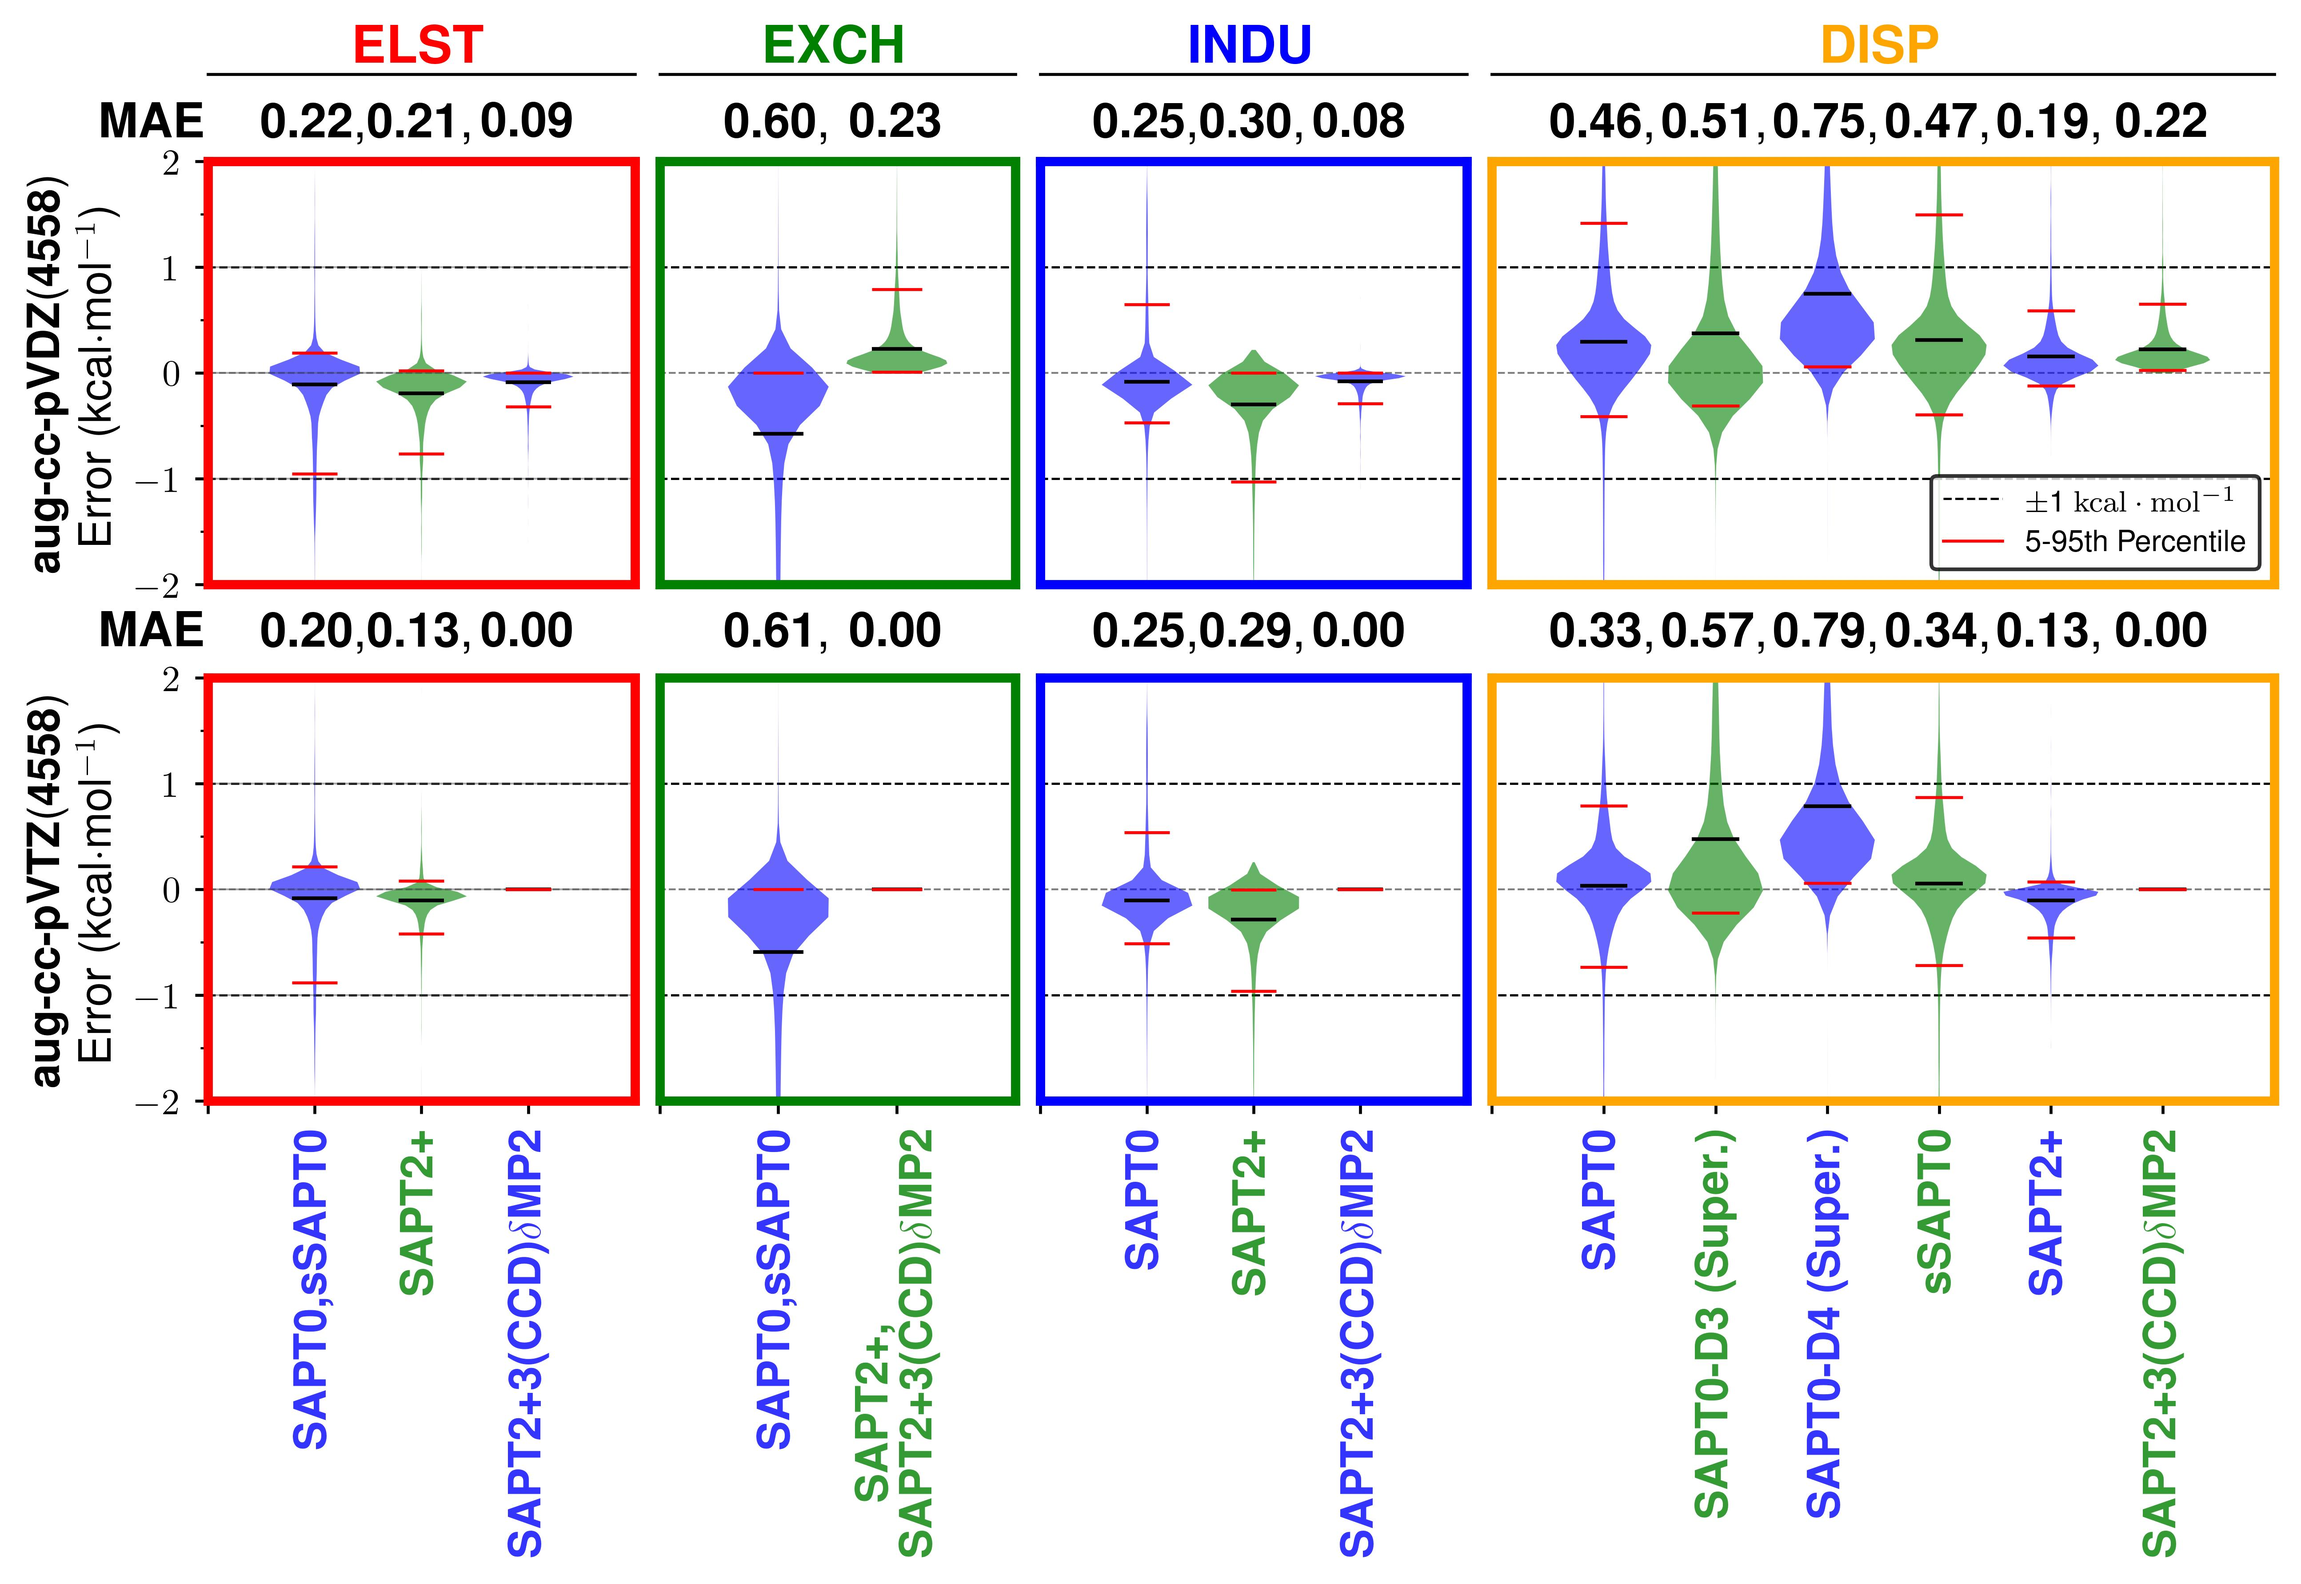
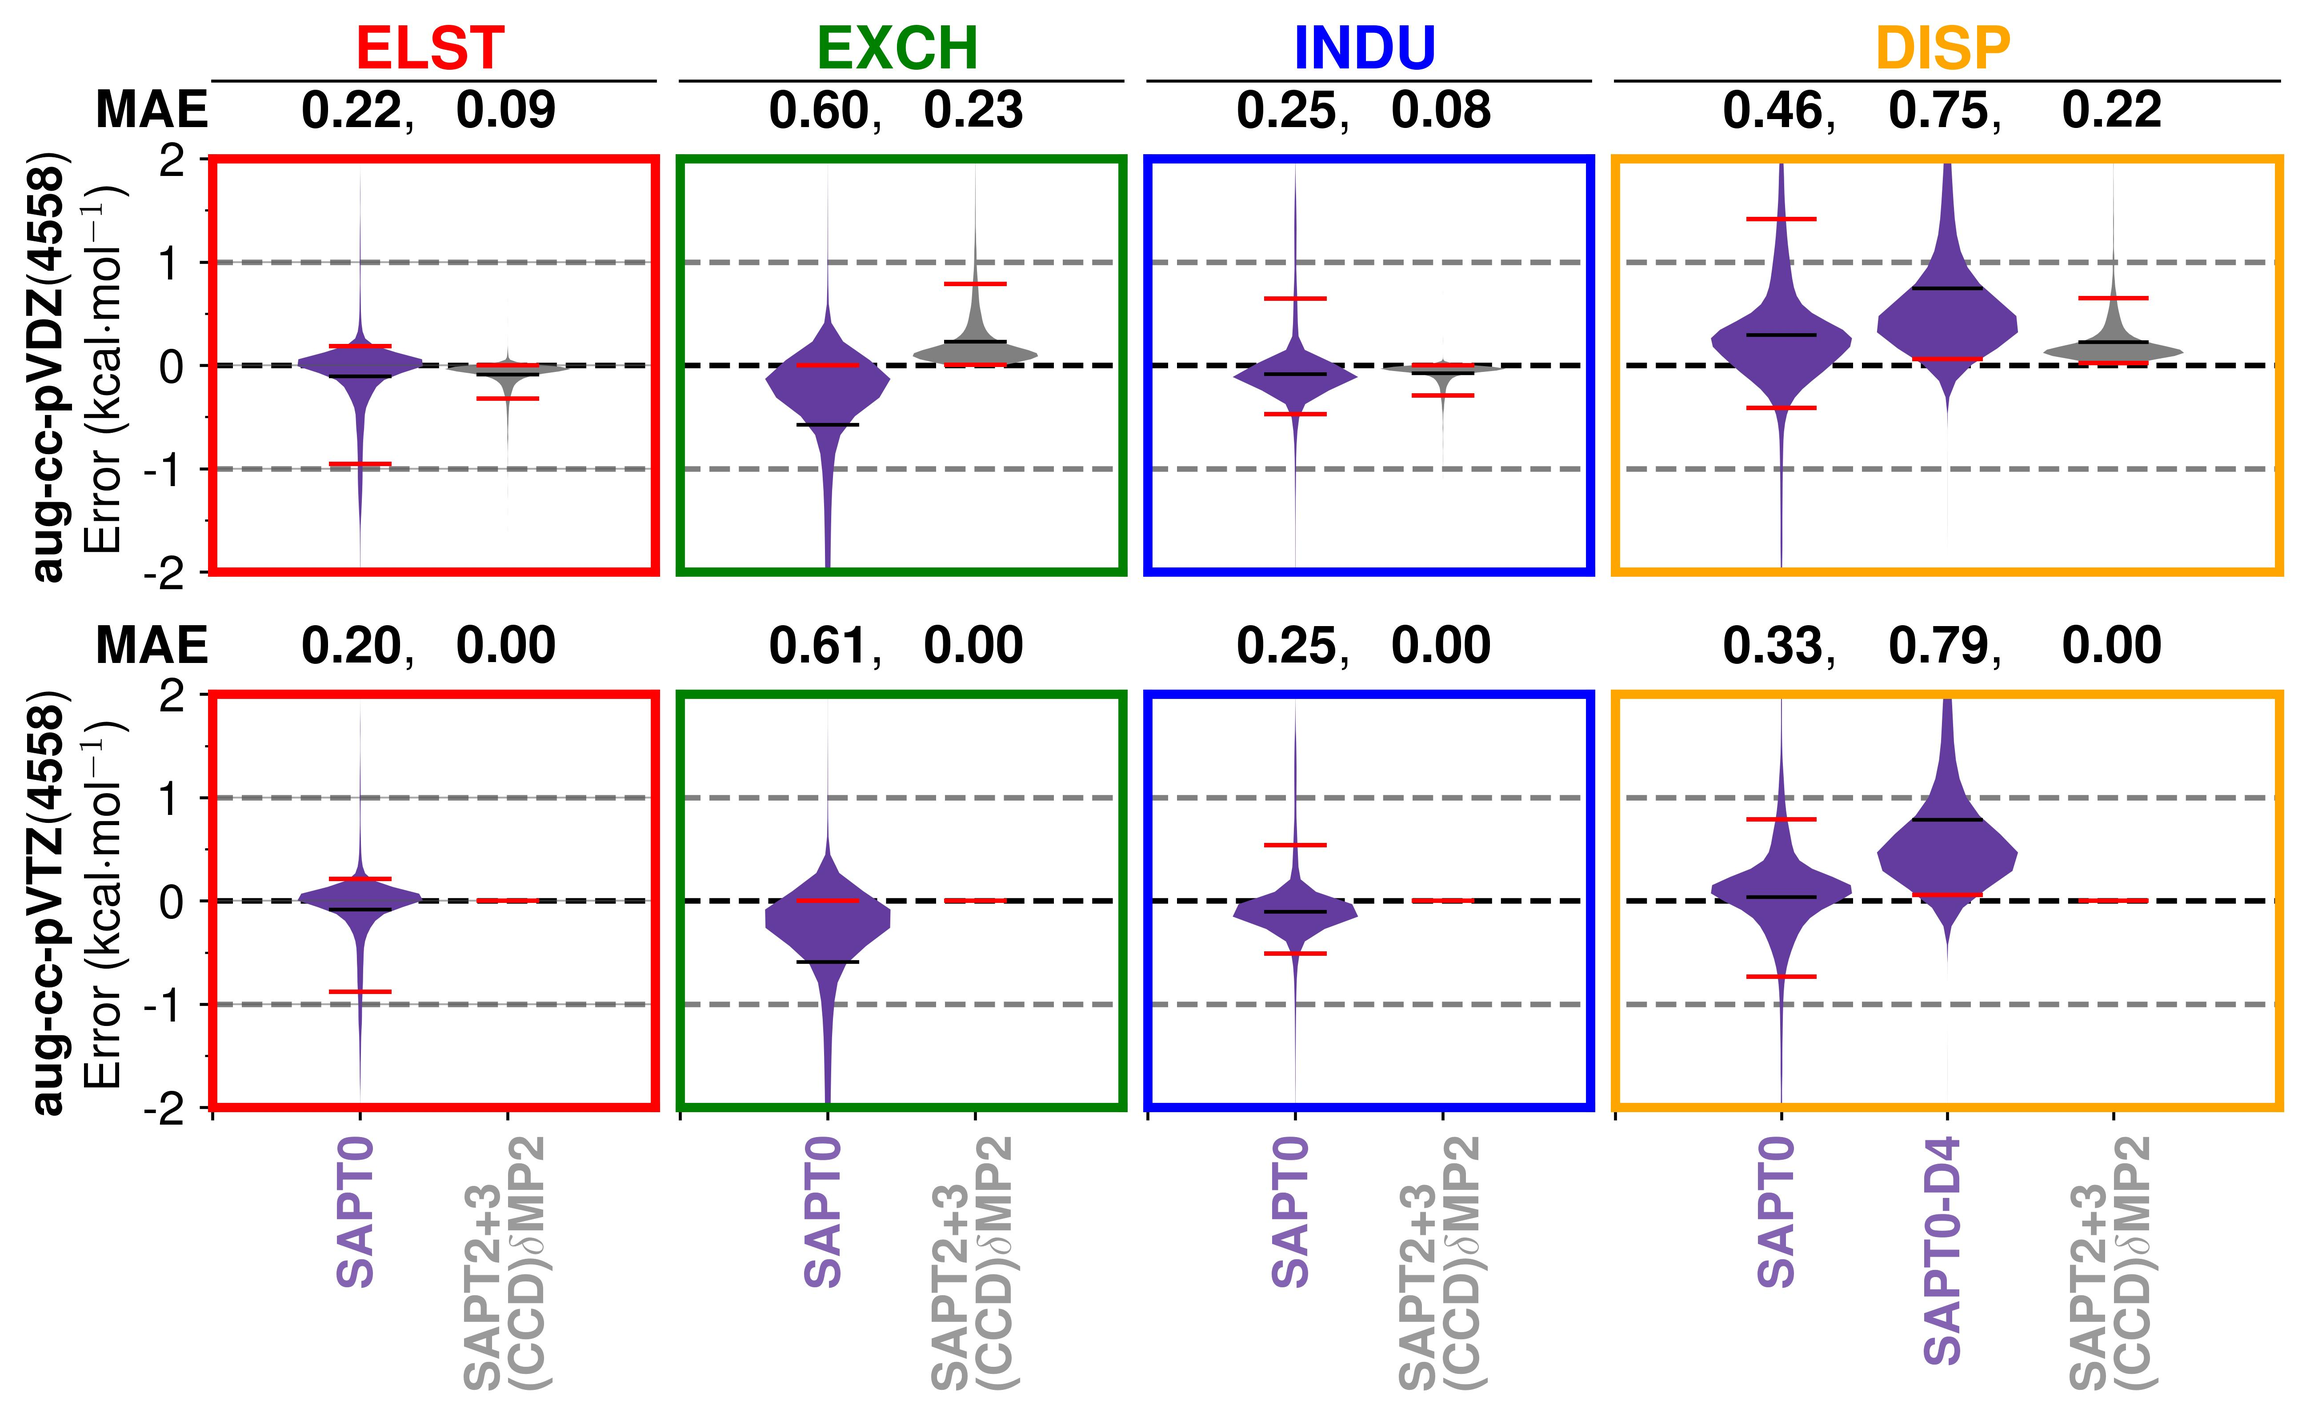
pre-dft reduction

Changed region(s): [[0.0, 0.0, 0.995, 0.9934]]

diff --git a/src/plotting.py b/src/plotting.py
@@ -5501,55 +5501,66 @@ def violin_plots_multi_components_sapt0d4(df):
         dfs,
         df_labels_and_columns_elst={
             # "SAPT(DFT) [PBE0]": "SAPT(DFT) [PBE0] ELST ENERGY Error",
-            "SAPT0,sSAPT0": "SAPT0 ELST ENERGY Error",
-            "SAPT2+": "SAPT2 ELST ENERGY Error",
-            "SAPT2+3(CCD)DMP2": "SAPT2+(3) ELST ENERGY Error",
+            "SAPT0": "SAPT0 ELST ENERGY Error",
+            # "SAPT2+": "SAPT2 ELST ENERGY Error",
+            "SAPT2+3\\\\(CCD)DMP2": "SAPT2+(3) ELST ENERGY Error",
         },
         df_labels_and_columns_exch={
             # "SAPT(DFT) [PBE0]": "SAPT(DFT) [PBE0] EXCH ENERGY Error",
-            "SAPT0,sSAPT0": "SAPT0 EXCH ENERGY Error",
-            "SAPT2+,\\\\SAPT2+3(CCD)DMP2": "SAPT2 EXCH ENERGY Error",
+            "SAPT0": "SAPT0 EXCH ENERGY Error",
+            "SAPT2+3\\\\(CCD)DMP2": "SAPT2 EXCH ENERGY Error",
         },
         df_labels_and_columns_indu={
             # "SAPT(DFT) [PBE0]": "SAPT(DFT) [PBE0] IND ENERGY Error",
             "SAPT0": "SAPT0 IND ENERGY Error",
             # "sSAPT0": "SSAPT0 IND ENERGY Error",
-            "SAPT2+": "SAPT2 IND ENERGY Error",
-            "SAPT2+3(CCD)DMP2": "SAPT2+3DMP2 IND ENERGY Error",
+            # "SAPT2+": "SAPT2 IND ENERGY Error",
+            "SAPT2+3\\\\(CCD)DMP2": "SAPT2+3DMP2 IND ENERGY Error",
         },
         df_labels_and_columns_disp={
             "SAPT0": "SAPT0 DISP ENERGY Error",
-            "SAPT0-D3 (Super.)": "SAPT0-D3 (Super.) DISP ENERGY Error",
+            # "SAPT0-D3 (Super.)": "SAPT0-D3 (Super.) DISP ENERGY Error",
             # "SAPT0-D4 (Intermol.)": "SAPT0-D4 (Intermol.) DISP ENERGY Error",
-            "SAPT0-D4 (Super.)": "SAPT0-D4 (Super.) DISP ENERGY Error",
-            "sSAPT0": "SSAPT0 DISP ENERGY Error",
-            "SAPT2+": "SAPT2+ DISP ENERGY Error",
-            "SAPT2+3(CCD)DMP2": "SAPT2+3(CCD) DISP ENERGY Error",
+            "SAPT0-D4": "SAPT0-D4 (Super.) DISP ENERGY Error",
+            # "sSAPT0": "SSAPT0 DISP ENERGY Error",
+            # "SAPT2+": "SAPT2+ DISP ENERGY Error",
+            "SAPT2+3\\\\(CCD)DMP2": "SAPT2+3(CCD) DISP ENERGY Error",
         },
         output_filename=f"./plots/basis_set_components_LoS_pres.jpg",
         usetex=True,
-        legend_loc="lower right",
+        legend_loc=None,
         figure_size=(10, 5),
-        table_fontsize=13,
-        x_label_fontsize=12,
-        y_label_fontsize=12,
-        title_fontsize=14,
-        grid_heights = [
-            0.10,
+        grid_widths=[2, 2, 2, 3],
+        grid_heights=[
+            0.08,
             1,
-            0.01,
+            0.08,
             1,
         ],
-        grid_widths = [0.3, 0.25, 0.3, 0.55],
+        colors=[
+            [PURPLE, GREY],
+            [PURPLE, GREY],
+            [PURPLE, GREY],
+            [PURPLE, PURPLE, GREY],
+        ],
+        table_fontsize=14,
+        x_label_fontsize=13,
+        y_label_fontsize=13,
+        title_fontsize=16,
         mcure=None,
         MAE="textbf",
         RMSE=False,
         MinE=False,
         MaxE=False,
-        annotations_texty=-0.2,
+        annotations_texty=0.0,
         share_y_axis=True,
         wspace=0.05,
         table_delimiter=",",
+        gridlines_linewidths=1.5,
+        violin_alphas=1.0,
+        quantile_linewidth = 1.2,
+        pm_alpha=0.5,
+        zero_alpha=1.0,
     )
     return
 
@@ -8286,7 +8297,7 @@ def plot_components_sapt0_saptdft(df):
 
 def plot_LoS_saptdft(df,
     presentation=False,
-                     ):
+    ):
     print(
         df[
             [

diff --git a/plot_curve.py b/plot_curve.py
@@ -44,7 +44,7 @@ def plot_ie_curve(
     y_min = min(df_sys['disp']) if min(df_sys['disp']) < min(df_sys['elst']) else min(df_sys['elst'])
     y_max = y_max + 0.05 * y_max
     y_min = y_min + 0.05 * y_min
-    plt.ylim([y_min, y_max])
+    # plt.ylim([y_min, y_max])
     plt.savefig(f'plots/{db}/system_{system_num}_ie_curve_benchmark.png')
     plt.plot(df_sys['distance'], df_sys['elst'], linewidth=2.0, label='Elst', color='red')
     plt.plot(df_sys['distance'], df_sys['exch'], linewidth=2.0, label='Exch', color='green')
